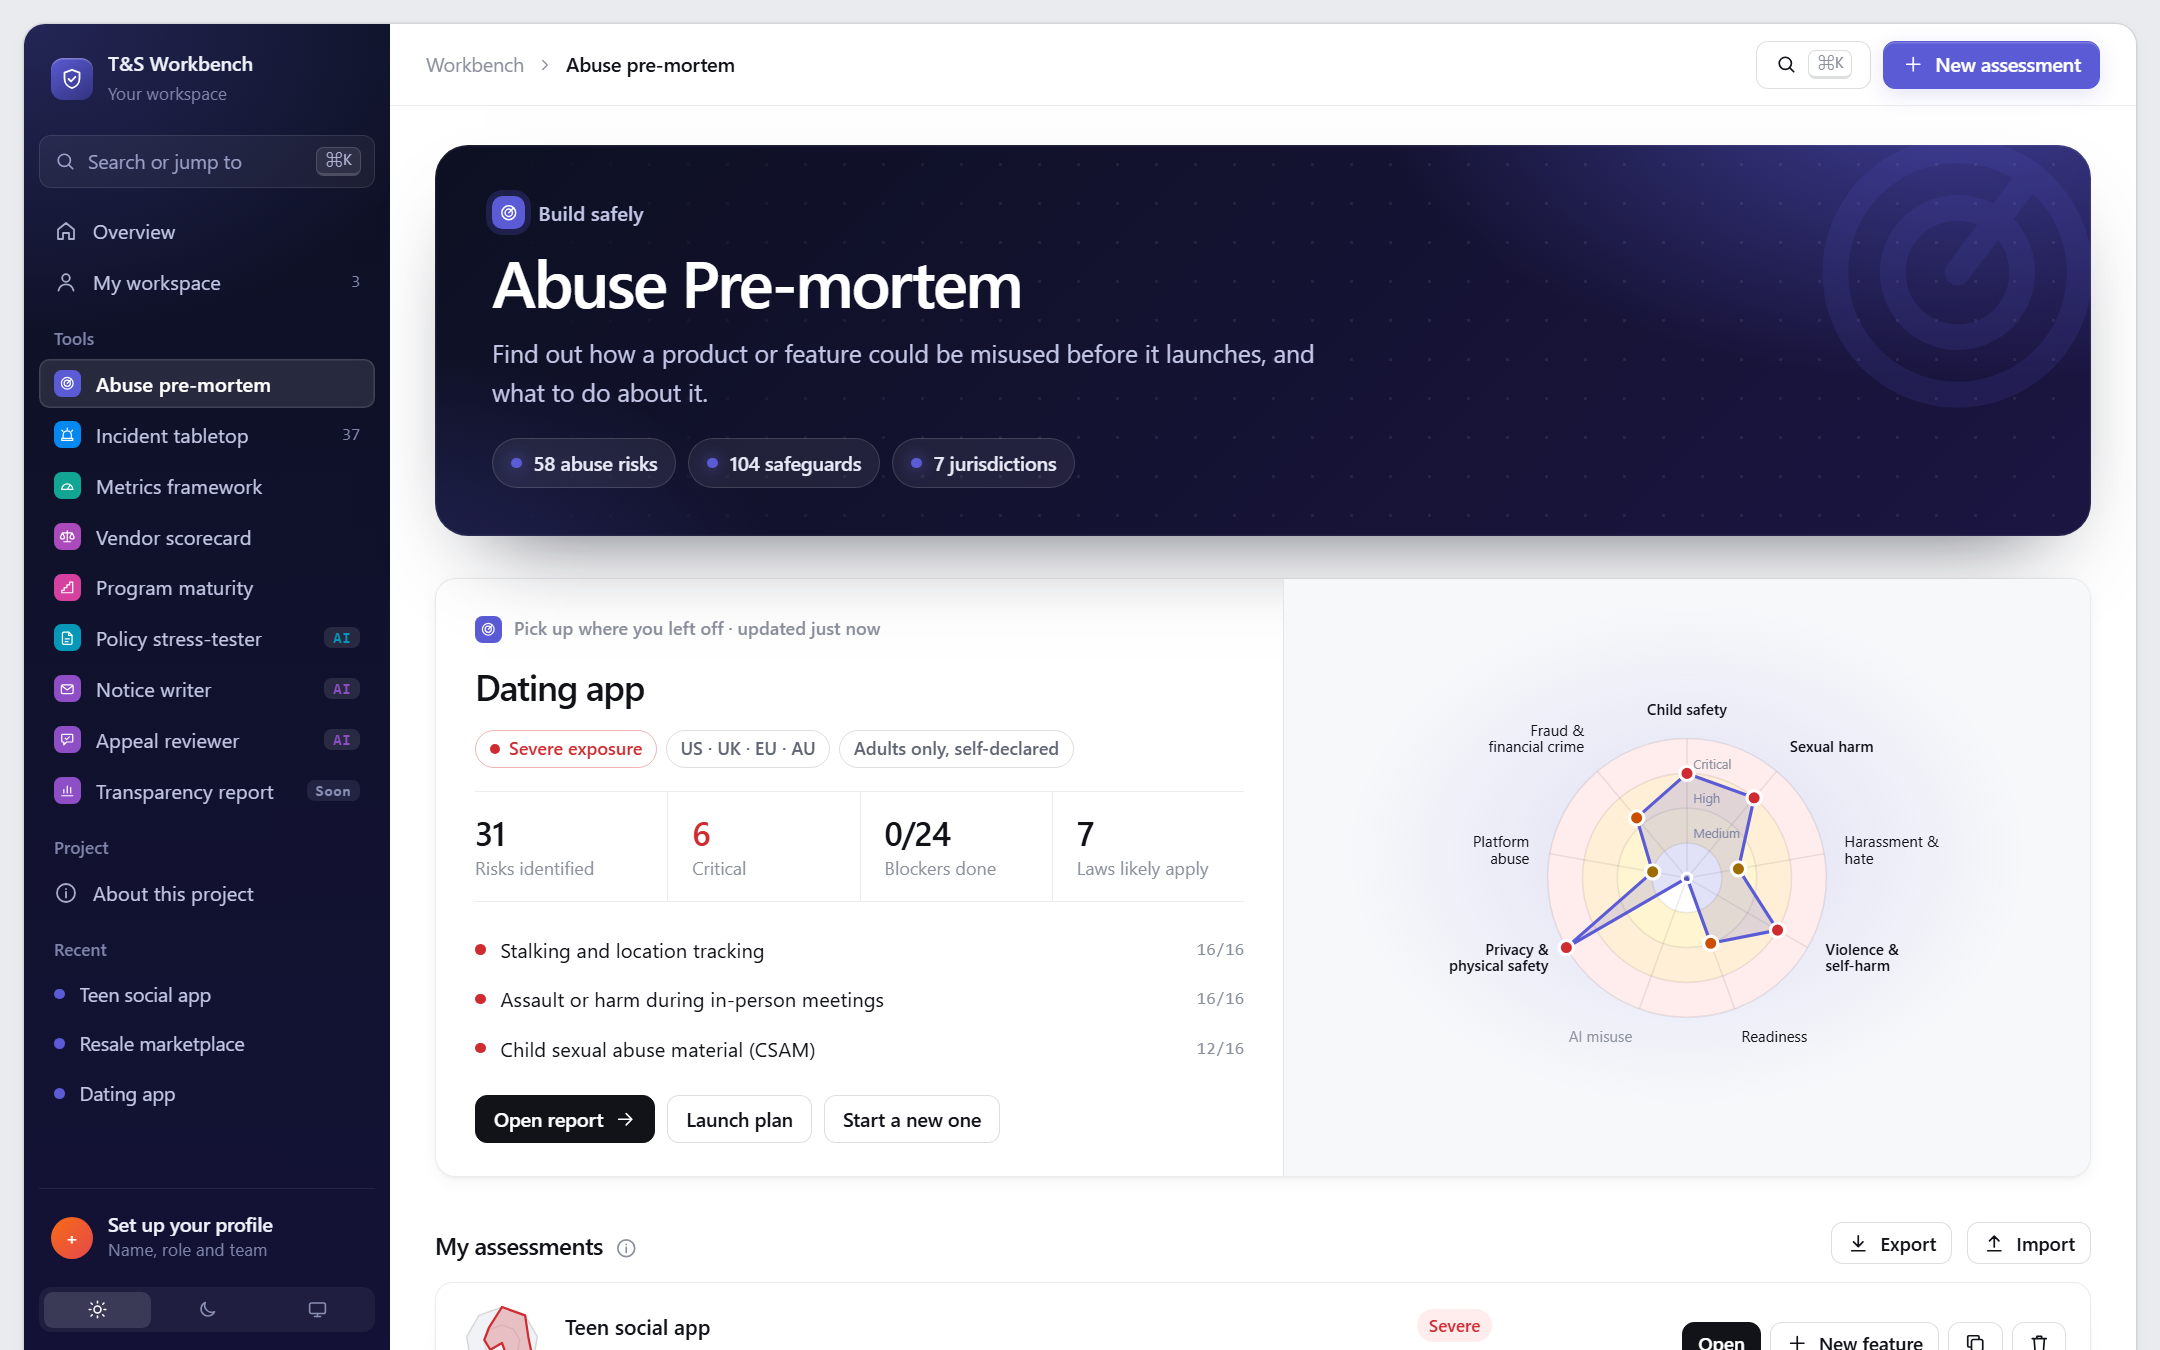
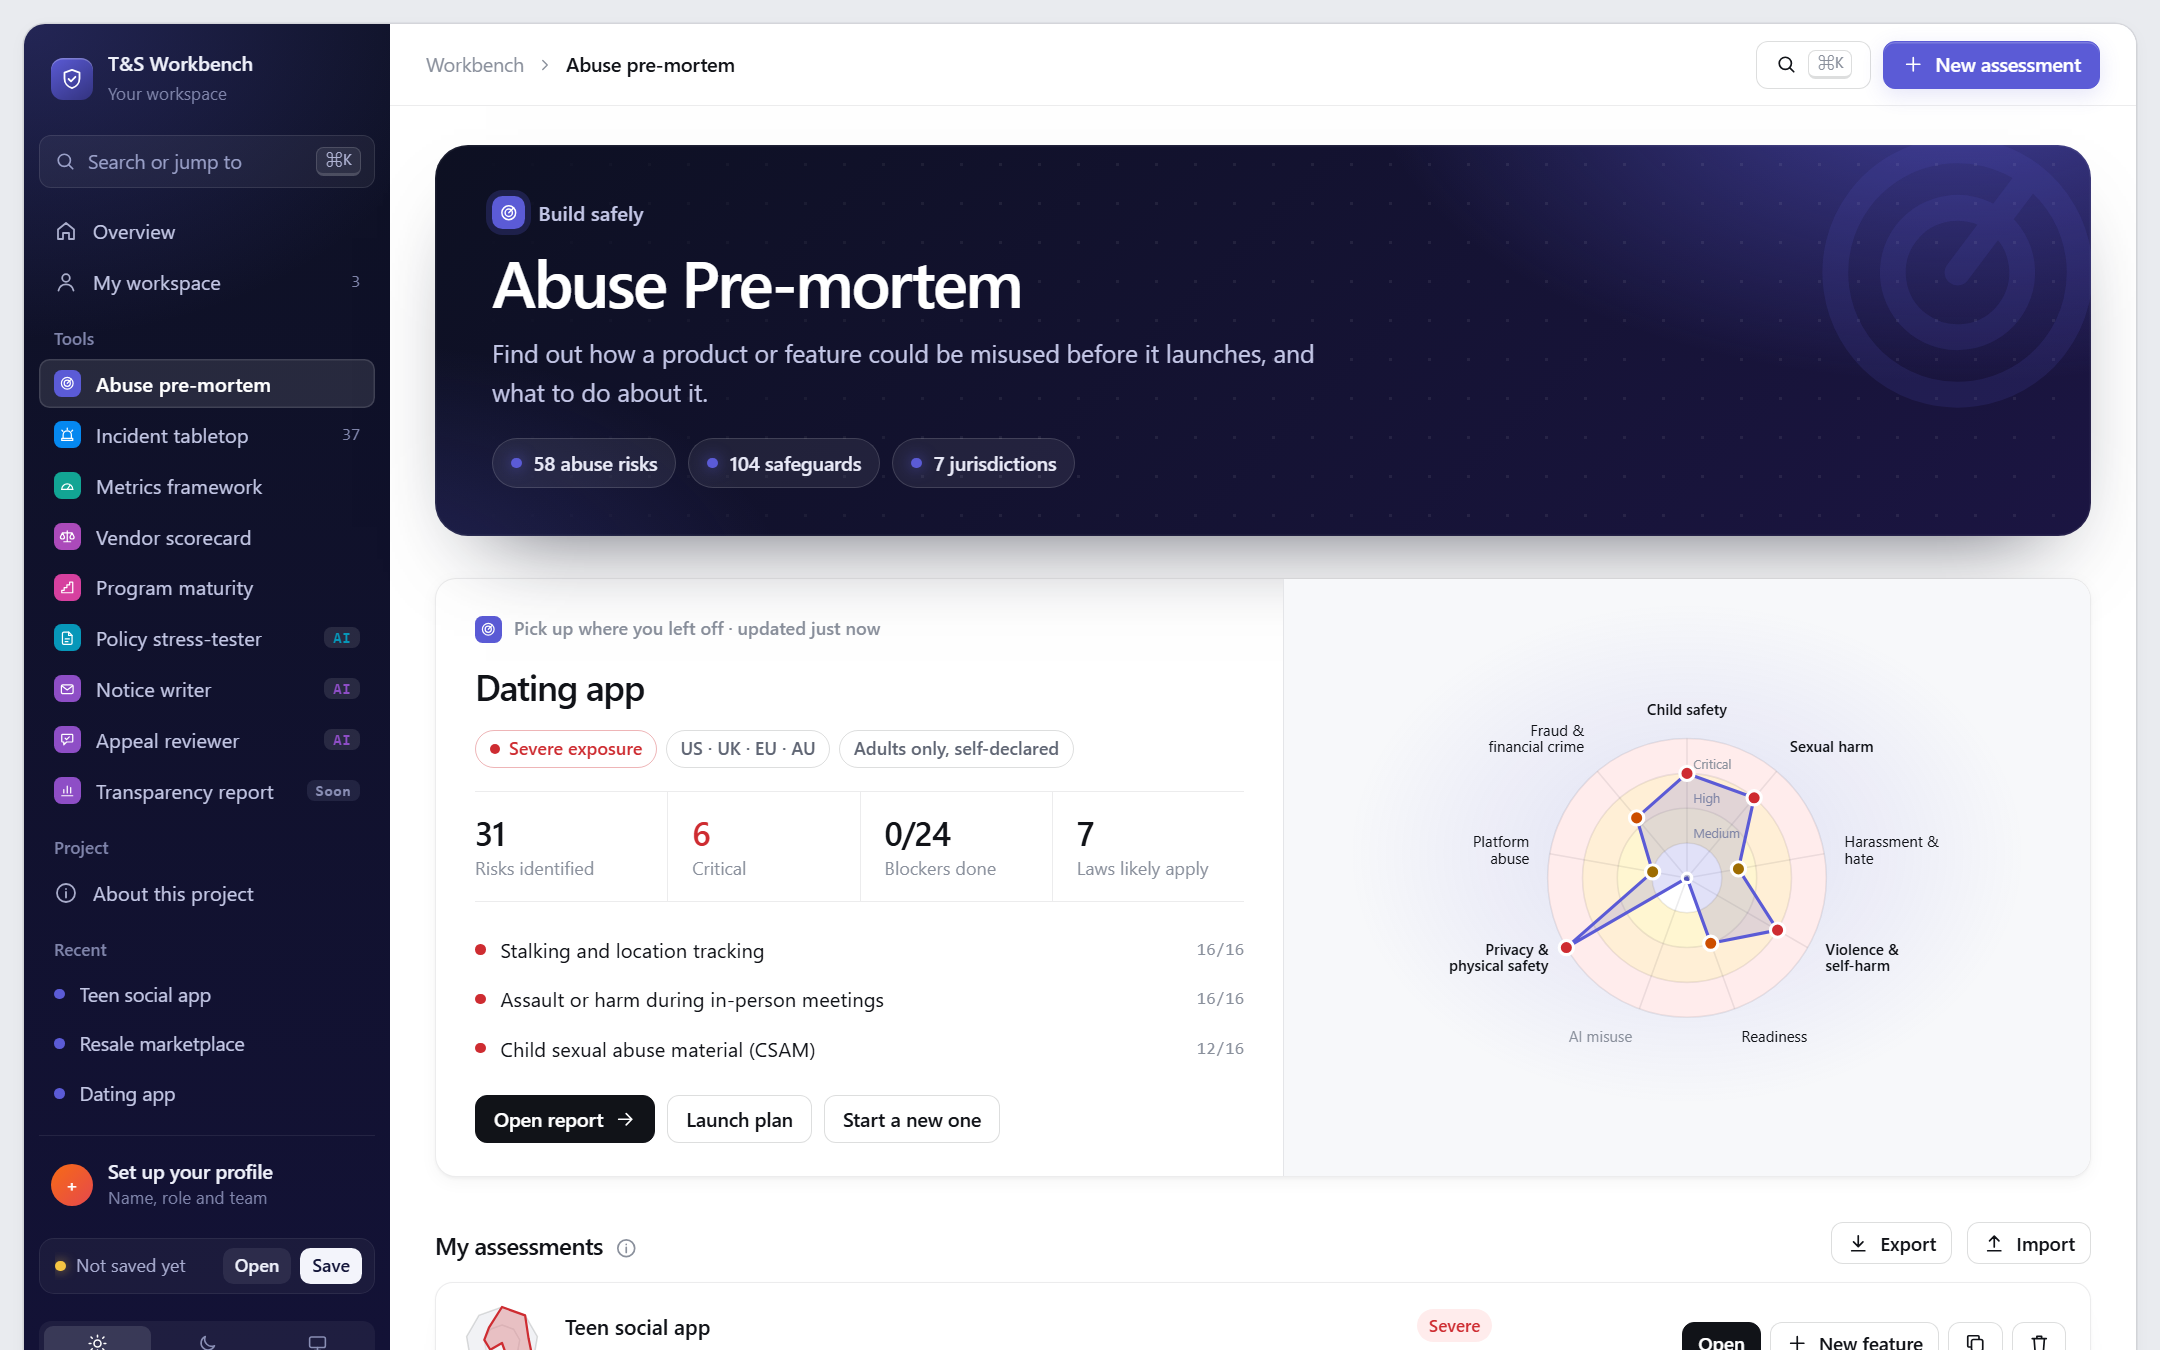
Profile file you can open on any device; send launch plans and maturity roadmaps to Jira, Asana, Linear or GitHub

Changed region(s): [[0.0, 0.84, 0.1861, 1.0]]

diff --git a/README.md b/README.md
@@ -18,6 +18,8 @@ Most safety work starts after launch, when the first harm shows up in the news o
 2. **See the risk picture.** 58 risks scored for severity and likelihood, each showing the answers that raised or lowered it.
 3. **Act on it.** A prioritized plan from 104 safeguards with owners and effort, plus the obligations that apply in each market.
 
+Send the launch plan to Jira, Asana or Linear as a CSV, or open each action as a pre-filled Jira, Linear or GitHub issue.
+
 ## What's in this repo
 
 The tool's knowledge, published as open content you can read, reuse and adapt.
